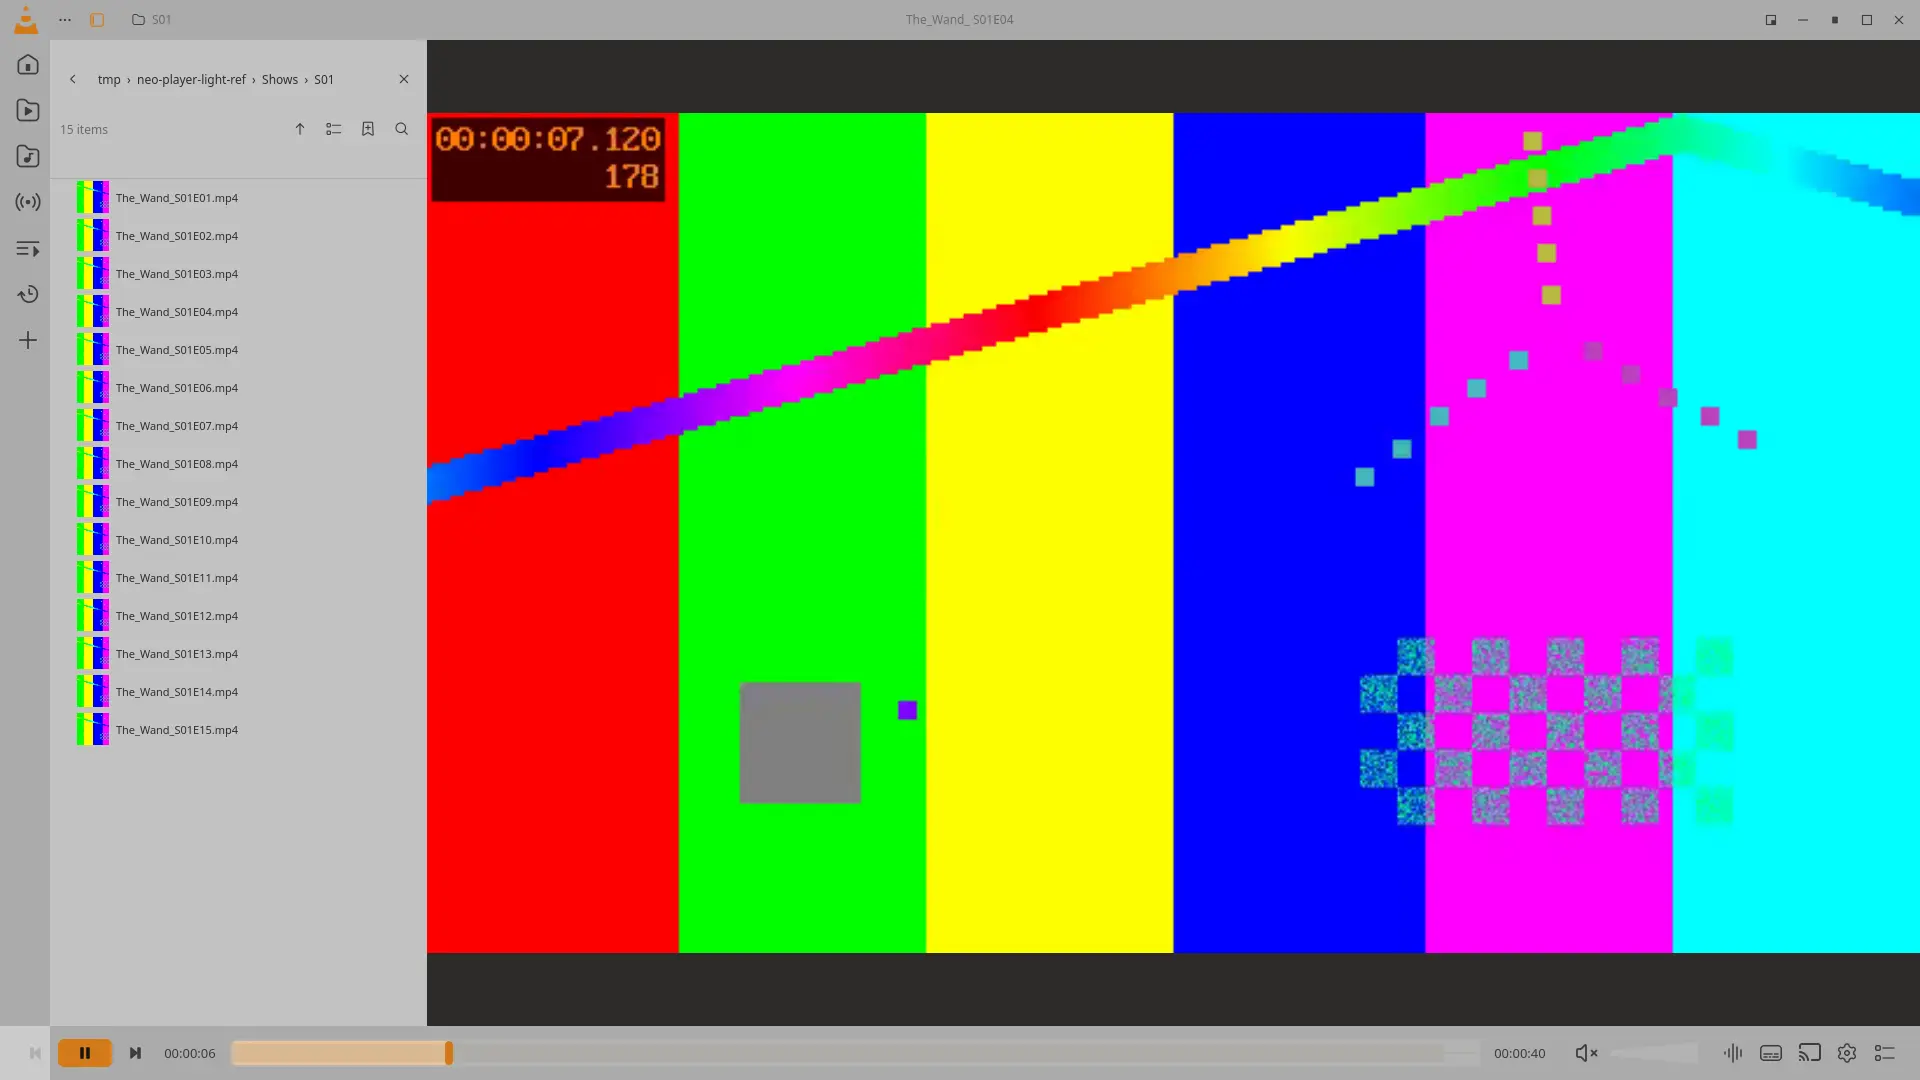
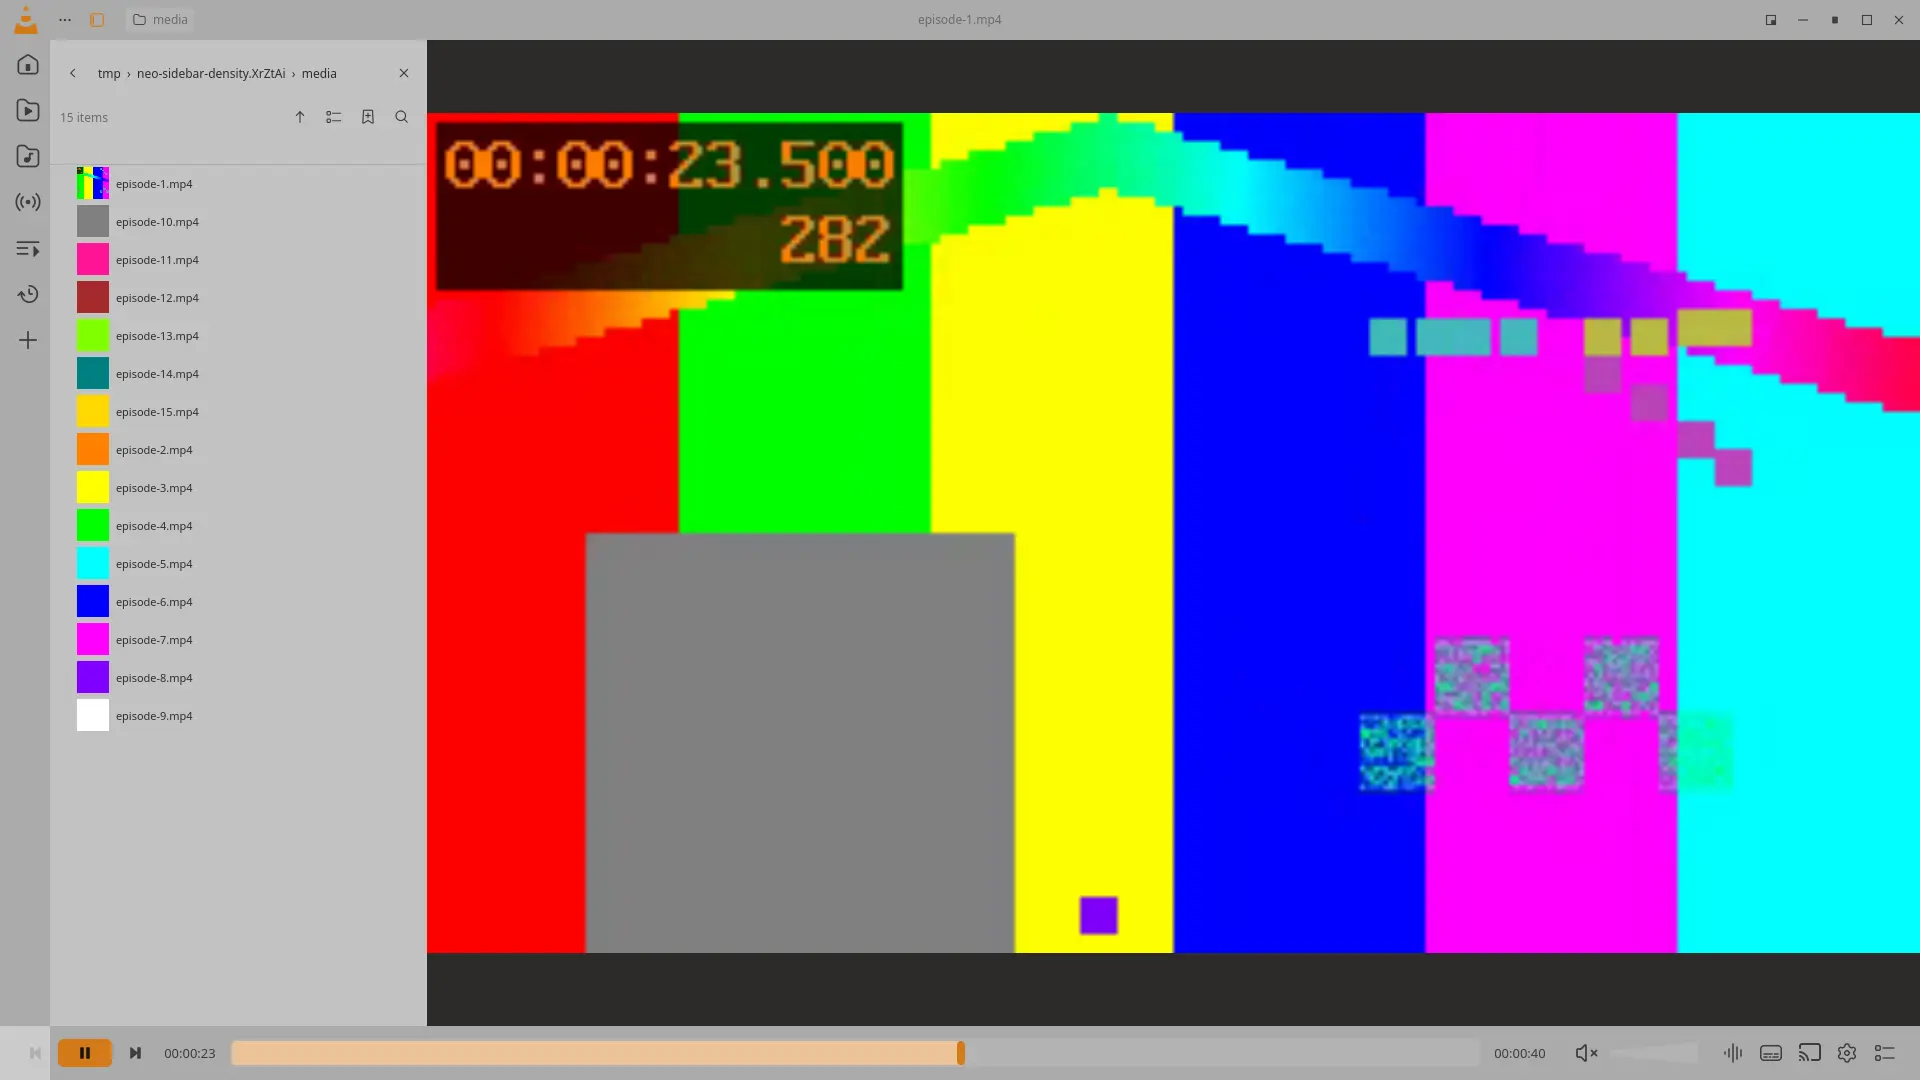
docs: refresh Player-Light sidebar comparison [skip ci]

diff --git a/docs/figma-parity.md b/docs/figma-parity.md
@@ -226,7 +226,7 @@ Desktop compatibility follow-up (2026-10-29): VLC 3's D-Bus inhibitor also suppo
 
 Post-follow-up local verification (2026-10-29, code commit `c897b98`): the Release build succeeds and all **14/14 CTests** pass, including the private MATE D-Bus test. The smoke runner passes `bash -n`, and a focused real-VLC offscreen probe confirms Cast quality's Automatic label maps to VLC value 1 with choices 0–3 retained, and the unset x264 preset displays Medium without mutating its raw value. The Release plugin was installed in the user's VLC Neo plugin directory and is mapped by the relaunched desktop process; its SHA-256 matches the build. Cross-distro CI [`40826394741`](https://github.com/alexandreolives/vlc-neo/actions/runs/40826394741) completed successfully: Arch and Mint each passed 14/14 CTests and 860/860 real-VLC smoke assertions, including the preference, filter, waveform, 110-item library and 50,000-row search checks.
 
-Player-Light vertical-alignment follow-up (2026-10-29, current worktree): the authenticated `browser` capture of Figma node `2425:13624` was normalized to 1920×1080 and compared with a fresh VLC capture. Reducing the compact-folder header and toolbar gaps moves the first file row into alignment with the Figma reference. The real-VLC 15-item probe passes at width 377 with `rowGeometry=63/125` and 15/15 decoded thumbnails; the compact 560×340 toolbar/search probe also passes. Smoke now asserts that geometry. Cross-distro CI [`40826394741`](https://github.com/alexandreolives/vlc-neo/actions/runs/40826394741) completed successfully at the preceding code commit (`860/860` smoke assertions and 14/14 CTests on Arch and Mint); it predates this focused geometry change, which is queued for a fresh run.
+Player-Light vertical-alignment follow-up (2026-10-29, code commit `186b62d`): the authenticated `browser` capture of Figma node `2425:13624` was normalized to 1920×1080 and compared with a fresh VLC capture. Reducing the compact-folder header and toolbar gaps moves the first file row into alignment with the Figma reference. The real-VLC 15-item probe passes at width 377 with `rowGeometry=63/125` and 15/15 decoded thumbnails; the compact 560×340 toolbar/search probe also passes. Smoke now asserts that geometry, and `player-light-sidebar.webp` was refreshed from the aligned capture. Cross-distro CI [`40826394741`](https://github.com/alexandreolives/vlc-neo/actions/runs/40826394741) completed successfully at the preceding code commit (`860/860` smoke assertions and 14/14 CTests on Arch and Mint); it predates this focused geometry change. CI run `40829258159` is validating `186b62d` on Arch and Mint.
 
 Recording-settings Figma follow-up (2026-10-29): the 1048×865 capture beside node `6571:16429` showed the cast-quality label differed: Figma says “Automatic”, while Neo exposed VLC's desktop default as “Medium quality”. Neo now labels VLC's actual default value as “Automatic” and keeps the three other VLC conversion modes. This does not invent a separate automatic mode; it preserves VLC's supported values (0–3). The focused real-VLC QML probe confirms the Automatic row maps to value 1 and all four values remain available; `settings-recording.webp` now shows the matching label. The full smoke suite also asserts the displayed choice and value mapping.
 
